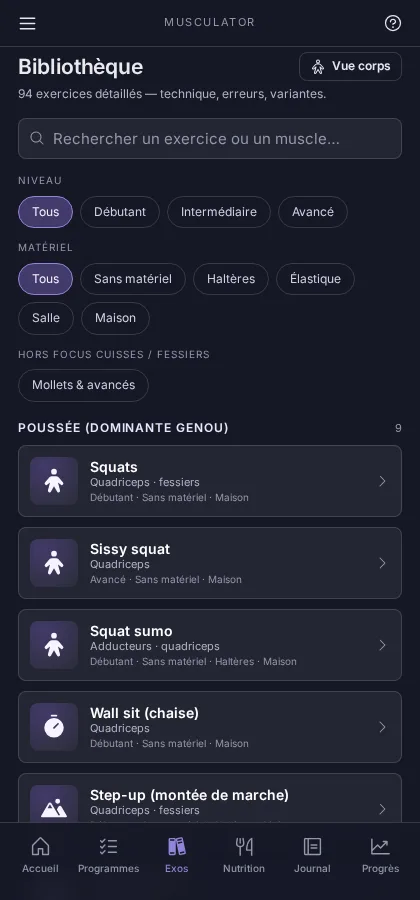
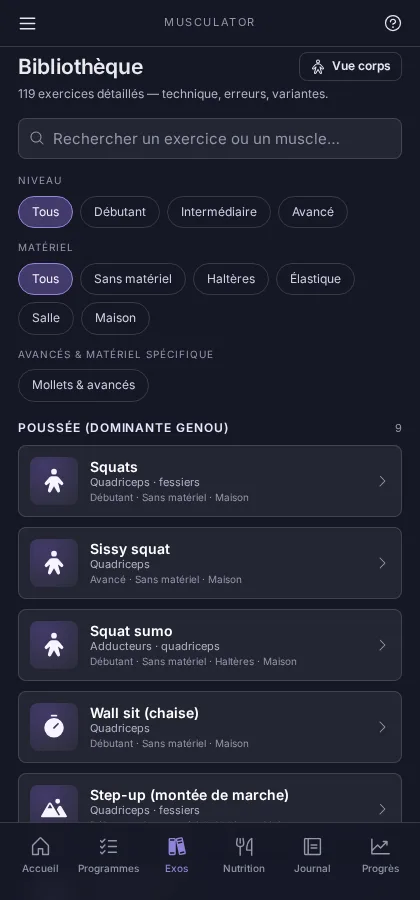
Reach the muscles between the shoulder blades, and a session that trains them
Four exercises, three muscles and a programme for the group a desk-and-phone day
loads all day: the scapular stabilisers and the posture of the neck above them.

What the catalogue actually lacked, once the raises added in #2 are counted:
the placement of the neck (chin tuck), the isometric scapular squeeze, and the
two stretches without which strengthening the back is pulling on a rope from
both ends — the doorway pectoral and the levator scapulae. There was no stretch
in the catalogue at all until now. The T, the W and the scapular push-up already
existed, so the programme uses `prone-w-raise`, `scapular-push-up` and `y-raise`
rather than shipping near-duplicates of them.

Three muscles had no zone on the body map although the movements were already
there — "Dentelé antérieur" was the `primaire` of the scapular push-up with no
muscle behind it. Rhomboids (between the shoulder blades), serratus anterior
(under the armpit, over the ribs) and the neck now have theirs, and their names
went into the ZONES bridge: without that, a whole posture session counts for no
profile zone and the progress analysis reads it as unmeasured.

The programme is corrective rather than developmental: no load, low volume, two
stretches at the end, and it is meant to be repeated daily where every other
programme here wants 48 h of recovery. Its description also says what the app
does not do — a pain that persists, radiates or wakes you at night is a reason
[…]

Changed region(s): [[0.0619, 0.3733, 0.4952, 0.4044], [0.3714, 0.0933, 0.7738, 0.1244], [0.031, 0.0933, 0.3405, 0.1244]]

diff --git a/src/data/exercises.js b/src/data/exercises.js
@@ -2065,7 +2065,77 @@ export const EXERCISES = [
     variFacile: "Amplitude réduite, genoux fléchis.", variDifficile: "Charge à la cheville, ou arrêt en haut.",
     similaires: ['hyperextension-45', 'good-morning', 'superman'],
   },
-];
+  // --- Posture cervicale & étirements de la ceinture scapulaire -------------
+  // Ce que le travail correctif demandait et que le catalogue n'avait pas : le
+  // placement du cou, le serrage d'omoplates isométrique, et les deux
+  // étirements sans lesquels renforcer le dos revient à tirer sur une corde des
+  // deux côtés. Les raises et le scapular push-up, eux, existent déjà
+  // (prone-t-raise, prone-w-raise, trap-3-raise, scapular-push-up). Volume
+  // faible, charge nulle : ce sont des exercices de placement.
+  {
+    id: 'chin-tuck', nom: 'Chin tuck (menton rentré)', muscle: 'Cou & nuque', niveau: 'Débutant', lieu: 'Maison',
+    mat: ['Sans matériel', 'Maison'], series: 3, reps: '10 × 5 s', repos: 30, icon: 'arrow-left',
+    desc: "Debout ou assis, recule la tête à l'horizontale — un double menton — sans la pencher. Le sommet du crâne monte, le regard reste droit devant.",
+    conseils: ["Recule, ne baisse pas : le regard reste horizontal", "Imagine un fil qui tire le sommet du crâne", "Sans forcer : c'est un placement, pas un étirement"],
+    primaire: 'Fléchisseurs profonds du cou', secondaires: ['Trapèzes moyens', 'Nuque'],
+    sollicitation: "Les fléchisseurs profonds (long du cou, long de la tête) travaillent en isométrie courte pour ramener la tête au-dessus des épaules. Ce sont des muscles d'endurance posturale : ils répondent à des maintiens brefs et répétés, pas à de la charge.",
+    surcharge: "Rien à surcharger ici, mais deux erreurs annulent l'exercice : baisser le menton vers la poitrine, qui étire la nuque au lieu de la replacer, et serrer les mâchoires. Si un maintien provoque vertige, fourmillements ou douleur qui irradie dans le bras, arrête et fais-toi examiner.",
+    depart: "Debout ou assis, dos droit, regard droit devant, épaules relâchées.",
+    mouvement: "Recule la tête à l'horizontale comme pour te faire un double menton, tiens 5 secondes, puis relâche sans repartir en avant.",
+    respiration: "Respire normalement pendant le maintien, sans bloquer.",
+    erreurs: ["Baisser le menton au lieu de reculer la tête", "Hausser les épaules", "Bloquer sa respiration"],
+    variFacile: "Allongé sur le dos, tête posée : la gravité aide et le repère est le sol.",
+    variDifficile: "Debout dos au mur, occiput qui vient toucher le mur sans cambrer la nuque.",
+    similaires: ['retraction-scapulaire', 'etirement-elevateur-scapula'],
+  },
+  {
+    id: 'retraction-scapulaire', nom: "Rétraction scapulaire", muscle: 'Rhomboïdes · trapèze moyen', niveau: 'Débutant', lieu: 'Maison',
+    mat: ['Sans matériel', 'Maison'], series: 3, reps: '10 × 5 s', repos: 30, icon: 'arrows-in-line-horizontal',
+    desc: "Assis ou debout, dos droit : rapproche les omoplates l'une de l'autre, comme pour coincer un crayon entre elles, sans hausser les épaules.",
+    conseils: ["Serre vers le bas et l'arrière, pas vers les oreilles", "Garde les bras relâchés : le mouvement vient du dos", "Cinq secondes de maintien, puis relâche complètement"],
+    primaire: 'Rhomboïdes', secondaires: ['Trapèzes moyens', 'Trapèzes inférieurs'],
+    sollicitation: "Contraction isométrique pure des rhomboïdes et du trapèze moyen, qui tirent le bord interne de l'omoplate vers la colonne. C'est l'exact inverse de la position que prend l'omoplate quand tu travailles tête baissée, épaules enroulées — d'où l'intérêt de le refaire souvent et court.",
+    surcharge: "Le piège est de compenser avec le trapèze supérieur : dès que les épaules montent vers les oreilles, ce sont les mauvais muscles qui travaillent. Relâche et recommence plus doucement plutôt que de serrer plus fort.",
+    depart: "Assis ou debout, dos droit, épaules basses, bras relâchés le long du corps.",
+    mouvement: "Rapproche les omoplates l'une de l'autre en ouvrant la poitrine, tiens 5 secondes, puis relâche.",
+    respiration: "Souffle en serrant, respire normalement pendant le maintien.",
+    erreurs: ["Hausser les épaules", "Cambrer le bas du dos pour ouvrir la poitrine", "Serrer en apnée"],
+    variFacile: "Assis, dos contre un dossier, pour supprimer tout le travail postural.",
+    variDifficile: "Un élastique léger tenu devant soi, bras tendus, pendant le serrage.",
+    similaires: ['y-raise', 'prone-t-raise', 'scapular-push-up'],
+  },
+  {
+    id: 'etirement-pectoral-porte', nom: 'Étirement pectoral au cadre de porte', muscle: 'Pectoraux', niveau: 'Débutant', lieu: 'Maison',
+    mat: ['Sans matériel', 'Maison'], series: 3, reps: '30 s', repos: 15, icon: 'wind',
+    desc: "Avant-bras posé contre un cadre de porte, coude à 90° à hauteur d'épaule. Avance doucement le bassin, dos droit, jusqu'à sentir l'étirement dans la poitrine.",
+    conseils: ["Coude à hauteur d'épaule, ni plus haut ni plus bas", "Avance le corps entier, ne tourne pas le buste", "Étirement franc mais indolore : jamais de douleur vive"],
+    primaire: 'Pectoraux', secondaires: ['Deltoïdes antérieurs'],
+    sollicitation: "Étirement passif du grand pectoral, maintenu assez longtemps pour que la tension retombe. Des pectoraux courts tirent en permanence l'épaule vers l'avant : tant qu'ils ne cèdent pas, les muscles du dos travaillent contre eux toute la journée — les renforcer sans les étirer revient à tirer sur une corde des deux côtés.",
+    surcharge: "L'avant de l'épaule encaisse tout si le coude monte trop haut ou si l'on force en tournant : garde le coude à hauteur d'épaule et arrête à la première douleur pointue à l'avant de l'épaule. Un étirement se dose en minutes par jour, pas en intensité.",
+    depart: "Debout devant un cadre de porte, avant-bras gauche posé contre le montant, coude fléchi à 90° à hauteur d'épaule.",
+    mouvement: "Avance lentement le bassin en gardant le dos droit jusqu'à sentir l'étirement dans la poitrine, tiens 30 secondes, puis change de côté.",
+    respiration: "Respire lentement et profondément : chaque expiration laisse gagner un peu d'amplitude.",
+    erreurs: ["Coude trop haut", "Cambrer le bas du dos pour avancer", "Tenir en apnée ou rebondir"],
+    variFacile: "Bras plus bas sur le montant, amplitude réduite.",
+    variDifficile: "Les deux bras à la fois dans l'encadrement, un pas en avant.",
+    similaires: ['etirement-elevateur-scapula', 'prone-t-raise'],
+  },
+  {
+    id: 'etirement-elevateur-scapula', nom: 'Étirement élévateur de la scapula', muscle: 'Cou & nuque', niveau: 'Débutant', lieu: 'Maison',
+    mat: ['Sans matériel', 'Maison'], series: 2, reps: '25 s', repos: 15, icon: 'person-simple-tai-chi',
+    desc: "Assis, tourne la tête vers l'aisselle opposée et regarde vers le bas. La main du même côté accompagne très légèrement le mouvement, sans tirer.",
+    conseils: ["Regarde vers l'aisselle, pas droit devant", "La main accompagne, elle ne tire pas", "Épaule du côté étiré basse et relâchée"],
+    primaire: 'Élévateur de la scapula', secondaires: ['Trapèzes supérieurs', 'Nuque'],
+    sollicitation: "L'élévateur de la scapula relie les vertèbres du cou au coin supérieur de l'omoplate ; il ne s'allonge que dans cette combinaison précise — flexion, inclinaison et rotation du cou du côté opposé. Le maintien long, sans à-coup, est ce qui fait retomber le tonus d'un muscle contracté toute la journée.",
+    surcharge: "C'est le cou : on n'y met jamais de force. Une main qui tire, c'est trop — elle pèse seulement. Fourmillements, vertige ou douleur qui descend dans le bras : arrête immédiatement et fais-toi examiner avant de reprendre.",
+    depart: "Assis, dos droit, épaules basses, une main posée légèrement à l'arrière de la tête.",
+    mouvement: "Tourne la tête vers l'aisselle opposée, laisse-la descendre doucement, tiens 25 secondes, puis change de côté.",
+    respiration: "Respire lentement ; relâche un peu plus à chaque expiration.",
+    erreurs: ["Tirer franchement sur la tête", "Hausser l'épaule du côté étiré", "Étirer en force jusqu'à la douleur"],
+    variFacile: "Sans les mains : le seul poids de la tête suffit.",
+    variDifficile: "Assis sur la main du côté étiré pour bloquer l'épaule en bas.",
+    similaires: ['chin-tuck', 'etirement-pectoral-porte'],
+  },];
 
 // Movement patterns, in the order the catalogue presents them.
 export const PATTERNS = [

diff --git a/src/data/muscles.js b/src/data/muscles.js
@@ -13,7 +13,7 @@
 // at least one zone in overlays/BodyMap.jsx, otherwise it can't be selected.
 export const MUSCLES = [
   { id: 'epaules', nom: 'Épaules (deltoïdes)', region: 'front', exos: ['oiseau-halteres', 'oiseau-elastique', 'developpe-arnold', 'elevation-frontale', 'face-pull', 'developpe', 'elevations-laterales', 'pompes'] },
-  { id: 'pecs', nom: 'Pectoraux', region: 'front', exos: ['pompes-diamant', 'pompes-inclinees', 'pompes-declinees', 'developpe-couche', 'developpe-incline', 'ecartes-halteres', 'pull-over', 'pompes', 'pompes-elastique', 'dips', 'developpe'] },
+  { id: 'pecs', nom: 'Pectoraux', region: 'front', exos: ['pompes-diamant', 'pompes-inclinees', 'pompes-declinees', 'developpe-couche', 'developpe-incline', 'ecartes-halteres', 'pull-over', 'etirement-pectoral-porte', 'pompes', 'pompes-elastique', 'dips', 'developpe'] },
   { id: 'biceps', nom: 'Biceps', region: 'front', exos: ['curl-marteau', 'curl-incline', 'curl-concentration', 'curl-elastique', 'curl-inverse', 'rowing-halteres-un-bras', 'rowing-inverse', 'curl-biceps', 'tractions', 'traction-supination', 'rowing'] },
   { id: 'abdos', nom: 'Abdominaux', region: 'front', exos: ['dead-bug', 'hollow-body', 'bicycle', 'v-up', 'abdos', 'releve-jambes', 'reverse-crunch', 'hanging-knee-raise', 'hanging-leg-raise', 'toes-to-bar', 'ab-wheel-rollout', 'up-down-plank', 'gainage', 'mountain', 'copenhagen'] },
   // Ajoutés quand le catalogue a couvert la rotation, la préhension et les
@@ -32,7 +32,15 @@ export const MUSCLES = [
     region: 'front',
     exos: ['copenhagen-dynamique', 'copenhagen-genou-flechi', 'adduction-debout-elastique', 'adduction-sol', 'copenhagen', 'serrage-ballon', 'squat-sumo', 'fente-laterale', 'frog-pump'],
   },
-  { id: 'trapezes', nom: 'Trapèzes', region: 'back', exos: ['shrugs', 'y-raise', 'rowing-coudes-ouverts', 'trap-3-raise', 'prone-t-raise', 'prone-w-raise', 'scapular-push-up', 'scapular-pull-up', 'farmer-walk', 'oiseau-halteres', 'oiseau-elastique', 'face-pull', 'rowing-halteres-buste-penche', 'rowing-inverse', 'tractions', 'rowing', 'developpe'] },
+  { id: 'trapezes', nom: 'Trapèzes', region: 'back', exos: ['shrugs', 'y-raise', 'retraction-scapulaire', 'rowing-coudes-ouverts', 'trap-3-raise', 'prone-t-raise', 'prone-w-raise', 'scapular-push-up', 'scapular-pull-up', 'farmer-walk', 'oiseau-halteres', 'oiseau-elastique', 'face-pull', 'rowing-halteres-buste-penche', 'rowing-inverse', 'tractions', 'rowing', 'developpe'] },
+  // Les stabilisateurs de l'omoplate et la nuque : trois zones qu'aucun
+  // exercice n'atteignait, alors que le catalogue avait déjà les mouvements —
+  // « Dentelé antérieur » était même un `primaire` sans muscle correspondant.
+  // Le dentelé est à l'avant (sous l'aisselle, sur les côtes) bien qu'il
+  // déplace l'omoplate, qui est dans le dos : c'est là qu'on le touche.
+  { id: 'rhomboides', nom: 'Rhomboïdes & trapèze moyen', region: 'back', exos: ['retraction-scapulaire', 'prone-w-raise', 'prone-t-raise', 'trap-3-raise', 'y-raise', 'face-pull', 'rowing-coudes-ouverts', 'rowing-inverse', 'oiseau-halteres'] },
+  { id: 'cou', nom: 'Cou & nuque', region: 'back', exos: ['chin-tuck', 'etirement-elevateur-scapula'] },
+  { id: 'dentele', nom: 'Dentelé antérieur', region: 'front', exos: ['scapular-push-up', 'scapular-pull-up', 'pompes', 'gainage', 'pull-over'] },
   { id: 'dos', nom: 'Dos (grand dorsal)', region: 'back', exos: ['dead-hang', 'oiseau-halteres', 'rowing-halteres-un-bras', 'rowing-halteres-buste-penche', 'rowing-inverse', 'tirage-vertical-elastique', 'tirage-horizontal-elastique-assis', 'traction-supination', 'traction-neutre', 'traction-negative', 'traction-assistee-elastique', 'straight-arm-pulldown-elastique', 'pulldown-genoux-elastique', 'pull-over', 'tractions', 'rowing'] },
   { id: 'triceps', nom: 'Triceps', region: 'back', exos: ['extension-triceps-unilaterale', 'extension-triceps-elastique', 'barre-au-front', 'pompes-diamant', 'developpe-couche', 'pompes-inclinees', 'dips', 'extension-triceps', 'pompes', 'developpe'] },
   {
@@ -69,9 +77,11 @@ export const MUSCLES = [
 // "Jambes" never appears in a session log, "Quadriceps" does.
 export const ZONES = [
   { label: 'Pectoraux', muscles: ['Pectoraux'] },
-  { label: 'Dos', muscles: ['Dos'] },
+  // 'Rhomboïdes' et 'Trapèzes moyens' arrivent des exercices de posture : sans
+  // eux dans la liste, une séance d'omoplates ne compterait pour aucune zone.
+  { label: 'Dos', muscles: ['Dos', 'Rhomboïdes', 'Trapèzes moyens'] },
   { label: 'Jambes', muscles: ['Quadriceps', 'Ischios', 'Fessiers', 'Moyen fessier', 'Adducteurs', 'Mollets'] },
-  { label: 'Épaules', muscles: ['Épaules'] },
+  { label: 'Épaules', muscles: ['Épaules', 'Rotateurs externes', 'Dentelé antérieur'] },
   { label: 'Bras', muscles: ['Triceps', 'Biceps'] },
   { label: 'Abdos', muscles: ['Sangle abdominale', 'Grand droit'] },
 ];

diff --git a/src/data/demos.js b/src/data/demos.js
@@ -1270,6 +1270,59 @@ export const DEMOS = {
       { hip: [44, 72], torso: -80, arm: [10, -30], armB: [16, -24], leg: [4, 86], legB: [-2, 92], foot: 0 },
     ],
   },
+
+  // --- Stabilisateurs de l'omoplate & posture cervicale ---------------------
+  // La rétraction d'omoplate se joue dans un plan que la vue de profil ne
+  // montre pas : ce qui se voit, c'est le coude qui part en arrière et la
+  // poitrine qui s'ouvre, et c'est ce que ces poses dessinent. Les T / W / L
+  // sont pour la même raison figurés buste penché plutôt qu'à plat ventre —
+  // allongé, le bras ne peut être tracé que le long du sol, et les quatre
+  // lettres se ressembleraient toutes.
+  'chin-tuck': {
+    scene: 'ground',
+    frames: [
+      // tête en avant, dos avachi : la posture de travail
+      { hip: [50, 58], torso: -76, arm: [88, 84], armB: [96, 92], leg: [92, 88], legB: [86, 94], foot: 0 },
+      // menton rentré : la tête revient au-dessus des épaules
+      { hip: [50, 58], torso: -97, arm: [88, 84], armB: [96, 92], leg: [92, 88], legB: [86, 94], foot: 0 },
+    ],
+  },
+
+  'retraction-scapulaire': {
+    scene: 'ground',
+    frames: [
+      // relâché : épaules enroulées, coudes en avant
+      { hip: [50, 58], torso: -84, arm: [70, 10], armB: [76, 18], leg: [92, 88], legB: [86, 94], foot: 0 },
+      // serrage : les coudes partent en arrière, la poitrine s'ouvre
+      { hip: [50, 58], torso: -93, arm: [108, -6], armB: [102, 0], leg: [92, 88], legB: [86, 94], foot: 0 },
+    ],
+  },
+
+  // Mains fixées au sol, coudes tendus : ce qui bouge est le buste, qui monte
+  // de quelques centimètres quand les omoplates s'écartent.
+  'etirement-pectoral-porte': {
+    scene: 'ground',
+    props: [{ kind: 'wall', x: 74, top: 22 }],
+    cycle: 5000, // maintien : seul le bassin avance
+    frames: [
+      // avant-bras posé sur le montant, bassin en arrière
+      { hip: [52, 58], torso: -88, arm: [30, -40.9], armB: [84, 92], leg: [92, 88], legB: [86, 94], foot: 0 },
+      // le bassin avance : la poitrine s'ouvre, le coude se ferme
+      { hip: [56, 58], torso: -88, arm: [41.8, -55.3], armB: [86, 94], leg: [96, 84], legB: [90, 90], foot: 0 },
+    ],
+  },
+
+  'etirement-elevateur-scapula': {
+    scene: 'ground',
+    props: [{ kind: 'block', x: 58, y: 74, w: 24 }],
+    cycle: 5000, // maintien assis : la main pèse, elle ne tire pas
+    frames: [
+      // assis, main posée sur l'arrière du crâne, coude haut
+      { hip: [52, 72], torso: -90, arm: [-51.6, -158.3], armB: [86, 92], leg: [0, 90], legB: [4, 86], foot: 0 },
+      // la main pèse : le buste se relâche d'un degré, la tête descend
+      { hip: [52, 72], torso: -85, arm: [-47, -153], armB: [88, 94], leg: [0, 90], legB: [4, 86], foot: 0 },
+    ],
+  },
 };
 
 export function demoFor(exId) {

diff --git a/src/data/programs.js b/src/data/programs.js
@@ -5,6 +5,14 @@ export const PROGRAMS = [
   { id: 'bas', nom: 'Bas du corps', obj: 'Prise de masse', niveau: 'Intermédiaire', lieu: 'Maison', duree: 20, kcal: 200, mat: ['Sans matériel', 'Maison'], icon: 'person-simple-walk', exos: ['squats', 'fentes', 'mountain'], desc: "Quadriceps et fessiers : puissance et volume des jambes, sans matériel." },
   { id: 'core', nom: 'Abdos / Core', obj: 'Gainage', niveau: 'Débutant', lieu: 'Maison', duree: 10, kcal: 90, mat: ['Sans matériel', 'Maison'], icon: 'shield-check', exos: ['gainage', 'abdos', 'mountain'], desc: "Renforce la sangle abdominale et stabilise ton tronc pour tous tes autres mouvements." },
   { id: 'hiit', nom: 'HIIT Brûle-graisse', obj: 'Cardio & sèche', niveau: 'Avancé', lieu: 'Maison', duree: 15, kcal: 240, mat: ['Sans matériel', 'Maison'], icon: 'lightning', exos: ['mountain', 'squats', 'pompes', 'fentes'], desc: "Intervalles intenses : du cardio pour sécher tout en préservant ta masse musculaire." },
+  // Séance corrective plutôt que de développement : charge nulle, volume
+  // faible, deux étirements à la fin. Elle vise la ceinture scapulaire d'un
+  // poste de travail tête baissée — stabilisateurs de l'omoplate d'un côté,
+  // pectoraux et élévateur de la scapula raccourcis de l'autre — et se refait
+  // souvent, idéalement tous les jours, là où les autres programmes demandent
+  // 48 h de récupération. Elle est montée sur les exercices du catalogue, pas
+  // sur des doublons : le Y, le W et le scapular push-up existaient déjà.
+  { id: 'omoplates', nom: 'Omoplates & nuque', obj: 'Tonus', niveau: 'Débutant', lieu: 'Maison', duree: 18, kcal: 70, mat: ['Sans matériel', 'Maison'], icon: 'person-simple-tai-chi', exos: ['chin-tuck', 'retraction-scapulaire', 'y-raise', 'prone-w-raise', 'scapular-push-up', 'etirement-pectoral-porte', 'etirement-elevateur-scapula'], desc: "Posture du haut du dos : on réveille d'abord les stabilisateurs de l'omoplate (rhomboïdes, trapèzes moyen et inférieur, dentelé), puis on relâche ce qui tire l'épaule vers l'avant. Sans charge, à refaire souvent — et si une douleur persiste, irradie ou réveille la nuit, fais-toi examiner." },
   { id: 'express', nom: 'Renforcement Express', obj: 'Prise de masse', niveau: 'Débutant', lieu: 'Maison', duree: 5, kcal: 55, mat: ['Sans matériel', 'Maison'], icon: 'timer', exos: ['pompes', 'squats', 'gainage'], desc: "5 minutes, 3 exercices : parfait quand le temps manque mais que tu veux rester régulier." },
 ];
 

diff --git a/src/overlays/BodyMap.jsx b/src/overlays/BodyMap.jsx
@@ -133,11 +133,20 @@ const FRONT_ZONES = [
   { id: 'quads', rect: { x: 104, y: 168, w: 19, h: 72, rx: 9 } },
   { id: 'adducteurs', rect: { x: 88, y: 174, w: 8, h: 52, rx: 4 } },
   { id: 'adducteurs', rect: { x: 104, y: 174, w: 8, h: 52, rx: 4 } },
+  // Le dentelé court sous l'aisselle, sur les côtes : deux bandes latérales
+  // posées après les pectoraux pour rester cliquables là où elles les touchent.
+  { id: 'dentele', rect: { x: 72, y: 82, w: 9, h: 20, rx: 4 } },
+  { id: 'dentele', rect: { x: 119, y: 82, w: 9, h: 20, rx: 4 } },
 ];
 
 const BACK_ZONES = [
   { id: 'trapezes', rect: { x: 80, y: 52, w: 40, h: 18, rx: 8 } },
   { id: 'dos', rect: { x: 76, y: 72, w: 48, h: 42, rx: 9 } },
+  // Entre les omoplates, par-dessus le grand dorsal : c'est exactement là que
+  // se plaint une ceinture scapulaire qui travaille tête baissée.
+  { id: 'rhomboides', rect: { x: 82, y: 70, w: 16, h: 18, rx: 4 } },
+  { id: 'rhomboides', rect: { x: 102, y: 70, w: 16, h: 18, rx: 4 } },
+  { id: 'cou', rect: { x: 91, y: 42, w: 18, h: 14, rx: 5 } },
   { id: 'triceps', rect: { x: 50, y: 70, w: 16, h: 30, rx: 8 } },
   { id: 'triceps', rect: { x: 134, y: 70, w: 16, h: 30, rx: 8 } },
   { id: 'lombaires', rect: { x: 82, y: 116, w: 36, h: 22, rx: 8 } },

diff --git a/src/data/cues.js b/src/data/cues.js
@@ -197,6 +197,15 @@ export const CUES = {
   'wrist-roller': { beat: 1400, seq: ['Enroule', 'Déroule'] },
   'pronation-supination-haltere': { beat: 1400, seq: ['Tourne', 'Reviens'] },
   'plate-wrist-curl': { beat: 1200, seq: ['Ferme', 'Déroule'] },
+
+  // Stabilisateurs de l'omoplate & posture cervicale. Les maintiens battent
+  // lentement — cinq secondes de serrage, pas une répétition — et les deux
+  // étirements portent une séquence plus longue de rappels, leur démo fixant
+  // son propre `cycle`.
+  'chin-tuck': { beat: 2500, seq: ['Recule la tête', 'Relâche'] },
+  'retraction-scapulaire': { beat: 2500, seq: ['Serre les omoplates', 'Relâche'] },
+  'etirement-pectoral-porte': { beat: 5000, seq: ['Avance le bassin', 'Respire', 'Épaule basse', 'Tiens bon'] },
+  'etirement-elevateur-scapula': { beat: 5000, seq: ['Regarde en bas', 'Respire', 'Sans tirer', 'Relâche un peu'] },
 };
 
 export const ENCOURAGEMENTS = [

diff --git a/src/data/tours.js b/src/data/tours.js
@@ -48,7 +48,7 @@ export const TOURS = [
       },
       {
         titre: 'La bibliothèque',
-        texte: "104 exercices avec fiche technique, muscle ciblé et démonstration animée. Chaque fiche peut se lancer seule, sans monter un programme.",
+        texte: "112 exercices avec fiche technique, muscle ciblé et démonstration animée. Chaque fiche peut se lancer seule, sans monter un programme.",
         tab: 'library',
         cible: 'tab-library',
       },

diff --git a/README.md b/README.md
@@ -40,7 +40,7 @@ trigger yourself and the optional AI analysis if you plug in your own key.
 
 | <img src="docs/screenshots/bodymap.webp" width="250" alt="Cartographie musculaire"> | <img src="docs/screenshots/library.webp" width="250" alt="Bibliothèque"> | <img src="docs/screenshots/programs.webp" width="250" alt="Programmes"> |
 |:--:|:--:|:--:|
-| **Cartographie** — sollicitation et récupération, calculées sur tes séances réelles | **Bibliothèque** — 130 exercices groupés par schéma de mouvement | **Programmes** — filtrables, plus un constructeur de séance |
+| **Cartographie** — sollicitation et récupération, calculées sur tes séances réelles | **Bibliothèque** — 136 exercices groupés par schéma de mouvement | **Programmes** — filtrables, plus un constructeur de séance |
 
 | <img src="docs/screenshots/help.webp" width="250" alt="Centre d'aide"> |
 |:--:|
@@ -134,11 +134,11 @@ the stored choice before first paint so a light-theme launch never flashes dark.
 - 📋 **Programmes** — filterable by duration/level/equipment, a workout builder to compose and
   save custom sessions (exercises, series, reps, charge, rest, order), and **"Importer un
   programme dicté"**: ask an assistant for a plan and each of its sessions becomes a custom
-  workout. The prompt embeds all 130 exercises so the assistant picks from the catalogue rather
+  workout. The prompt embeds all 136 exercises so the assistant picks from the catalogue rather
   than inventing — an invented exercise would have no animated demo, no voice cues and no
   place on the muscle map. A movement the catalogue lacks is replaced by the nearest one
   working the same muscle, and the preview says so before anything is saved.
-- 📚 **Bibliothèque** — searchable exercise catalogue (130 exercises) grouped by movement
+- 📚 **Bibliothèque** — searchable exercise catalogue (136 exercises) grouped by movement
   pattern, with full technique sheets (setup, movement, breathing, common mistakes, safety
   tips, easier/harder variants), an animated demo of every movement, and a "Muscle ciblé"
   block explaining how the target muscle is actually loaded and what to watch so it isn't
@@ -147,7 +147,7 @@ the stored choice before first paint so a light-theme launch never flashes dark.
   generic table), a day/meal food journal, a live macro dashboard against targets derived
   from your profile, and the **Score Musculation Quotidien** tying the two together. Can
   import a Nutritor journal CSV or a meal you dictated to a chat assistant.
-- 🧬 **Cartographie musculaire** — front/back muscle map over 13 muscle zones; sollicitation
+- 🧬 **Cartographie musculaire** — front/back muscle map over 19 muscle zones; sollicitation
   level and recovery state are derived from your real session history, not fixed demo
   numbers.
 - 📓 **Journal & Analyse IA** — today's sessions and food, a free-text daily note, plus a
@@ -175,14 +175,17 @@ the stored choice before first paint so a light-theme launch never flashes dark.
 
 ## 💪 Exercise catalogue
 
-130 exercises. The 10 original upper-body/core movements came from the design prototype and
+136 exercises. The 10 original upper-body/core movements came from the design prototype and
 the 35 lower-body ones (thighs / glutes) were added on top; a further batch closed the gaps the
 dictated-programme import kept substituting for — chest, back, deltoids, biceps, triceps,
 rotation and anti-rotation core work, and three families the catalogue had no entry for at
 all: grip and forearms, spinal erectors, and the trapezius, bringing it to 104. A last round of
 26 filled what remained per muscle group once the app's scope stopped being thighs/glutes-only —
 more of the lat, trapezius, forearm and suspended-ab families, plus a lumbar carry and a
-moyen-fessier step-down. The lower-body entries also carry `pattern`, their movement pattern.
+moyen-fessier step-down. Four more cover cervical posture and the releases the scapular work
+needs — chin tucks, an isometric scapular squeeze and two stretches (doorway pectoral, levator
+scapulae) — the group a desk-and-phone day loads all day, and what the **Omoplates & nuque**
+programme runs end to end. The lower-body entries also carry `pattern`, their movement pattern.
 `optionnel` sits alongside it there, and now on a handful of entries elsewhere too — it no
 longer means "outside thighs/glutes", it means "needs specialised kit or a skill/strength
 ceiling above the rest of its family", so it can mark a niche or advanced entry in any muscle
@@ -195,7 +198,7 @@ Use the helpers rather than filtering `EXERCISES` by hand: `coreExercises({ opti
 
 ## 🎞 Animated demos
 
-Every one of the 130 exercises has an animated demonstration, shown in its library sheet and
+Every one of the 136 exercises has an animated demonstration, shown in its library sheet and
 during a guided session — so you can always see the movement rather than read it.
 
 `src/data/demos.js` holds keyframe poses for a stick-figure skeleton rendered by

diff --git a/CLAUDE.md b/CLAUDE.md
@@ -190,7 +190,7 @@ ids, never to invented exercises.** An exercise is cross-referenced by `demos.js
 and `muscles.js`; one conjured by a model would have no demo, no voice cues and no place on
 the body map — five features degraded to gain a name.
 
-- The prompt therefore **embeds the whole catalogue** (45 lines, ~4 KB, generated from
+- The prompt therefore **embeds the whole catalogue** (178 lines, ~13 KB, generated from
   `EXERCISES` so it cannot drift). The parser resolves in three steps, each reported: id,
   then name, then substitution.
 - **Substitution requires the muscle the assistant named.** A name that already failed to
@@ -213,6 +213,9 @@ tooling:
 - `mat` uses a closed vocabulary (`Sans matériel · Haltères · Élastique · Salle · Maison`);
   the library filter matches it literally.
 - Every muscle id needs at least one zone in `overlays/BodyMap.jsx` or it can't be selected.
+  A new muscle also needs its `primaire` name listed in `ZONES` (`data/muscles.js`), or a
+  session training it counts for no profile zone at all and the progress analysis reads it as
+  unmeasured.
 
 `scripts/solve-pose.mjs` solves a pose from positions — "hand on the bench, foot on the
 floor" — instead of angles guessed by hand, which is the only way a pose that touches
@@ -242,7 +245,7 @@ viewBox); `lib/pose.js` does forward kinematics, interpolation and per-exercise 
 framing and is kept React-free; `components/ExerciseDemo.jsx` mutates SVG nodes imperatively
 via refs so a running animation never re-renders the tree above it.
 
-All 104 exercises have a demo. `demoFor(id)` still returns `null` for an unknown id and both
+All 112 exercises have a demo. `demoFor(id)` still returns `null` for an unknown id and both
 call sites degrade to the icon, so that guard stays — but a new exercise without a `DEMOS`
 entry is a gap, not a supported state.
 
@@ -254,6 +257,13 @@ Two things to know before adding or editing a pose:
   — for a leg, `bend: -1` puts the knee forward.
 - **The floor is `GROUND = 90`, and a standing figure has its hip at y≈58** (thigh 16 +
   shin 16). A support foot whose ankle does not land at y≈90 will look like it is hovering.
+
+- **A movement whose plane is perpendicular to the screen cannot be drawn at all.** Scapular
+  retraction happens across the back: from the side there is nothing to animate. The demo shows
+  what a side view *can* show — the elbow travelling backwards and the chest opening — because
+  a pose that animates the wrong thing is worse than one that animates a consequence. The same
+  limit is why the two stretches set `cycle` themselves and move by a couple of degrees: a hold
+  has no rep tempo to borrow, and the honest picture is a body that barely moves.
 
 Anything a demo is performed on is declared as data, not drawn ad hoc: `scene` for the floor
 and fixed apparatus, `props` for a bench/box/step or wall, and `weights` / `band` /

diff --git a/CHANGELOG.md b/CHANGELOG.md
@@ -10,6 +10,26 @@ grouped by date and reference the commit they landed in.
 
 ### Added
 
+- **Quatre exercices de posture, trois muscles, et un programme « Omoplates & nuque »** — le
+  travail correctif de la ceinture scapulaire, monté sur ce que le catalogue avait déjà.
+  - **Ce qui manquait vraiment** : chin tuck (placement du cou), rétraction scapulaire
+    (serrage isométrique de 5 s), et les deux étirements sans lesquels renforcer le dos revient
+    à tirer sur une corde des deux côtés — pectoral au cadre de porte, élévateur de la scapula.
+    Le catalogue n'avait aucun étirement jusqu'ici. Les raises et le scapular push-up, eux,
+    existaient déjà (`prone-t-raise`, `prone-w-raise`, `trap-3-raise`, `scapular-push-up`) : le
+    programme les réutilise plutôt que d'en ajouter des doublons.
+  - **Trois muscles n'avaient aucune zone** alors que les mouvements existaient — `dentele`
+    était même le `primaire` du scapular push-up sans muscle correspondant. `rhomboides` (entre
+    les omoplates), `dentele` (sous l'aisselle, sur les côtes) et `cou` (nuque) ont maintenant
+    leur zone sur la carte, et leurs noms sont entrés dans le pont `ZONES` : sans ça, une séance
+    de posture ne comptait pour aucune zone du profil et l'analyse des progrès la lisait comme
+    non mesurée.
+  - **Le programme est correctif, pas de développement** : charge nulle, volume faible, deux
+    étirements en fin de séance, et il se refait tous les jours là où les autres demandent
+    48 h. Sa description dit aussi ce que l'app ne fait pas : une douleur qui persiste, irradie
+    ou réveille la nuit relève d'un examen, pas d'un programme — le même garde-fou est écrit
+    dans le champ `surcharge` du chin tuck et de l'étirement du cou.
+
 - **Un centre d'aide dans l'app** — aide, FAQ, tutoriels et support, sans jamais avoir à en
   sortir. Nouvel overlay `help`, joignable depuis le menu, depuis le profil (« Aide &
   support ») et depuis le pied de la feuille d'aide contextuelle.

diff --git a/PROMPT-PROGRAMME.md b/PROMPT-PROGRAMME.md
@@ -4,7 +4,7 @@ Le prompt à donner à un assistant conversationnel pour qu'il compose un progra
 d'entraînement importable dans Musculator.
 
 > Fichier généré par `npm run gen-prompt` depuis `src/lib/programPrompt.js`, la seule source.
-> Ne pas l'éditer à la main : le prompt embarque le catalogue des 132 exercices,
+> Ne pas l'éditer à la main : le prompt embarque le catalogue des 136 exercices,
 > dérivé de `src/data/exercises.js`, et cette copie doit le suivre.
 
 ## Utilisation
@@ -175,6 +175,10 @@ superman|Superman|Lombaires|D|SM
 back-extension-sol|Back extension au sol|Lombaires|D|SM
 suitcase-carry|Suitcase carry|Lombaires|D|HM
 reverse-hyperextension|Reverse hyperextension|Lombaires|I|G
+chin-tuck|Chin tuck (menton rentré)|Fléchisseurs profonds du cou|D|SM
+retraction-scapulaire|Rétraction scapulaire|Rhomboïdes|D|SM
+etirement-pectoral-porte|Étirement pectoral au cadre de porte|Pectoraux|D|SM
+etirement-elevateur-scapula|Étirement élévateur de la scapula|Élévateur de la scapula|D|SM
 
 SÉANCES
 - Une séance Musculator = une liste d'exercices faite d'un coup. Un programme sur la semaine
